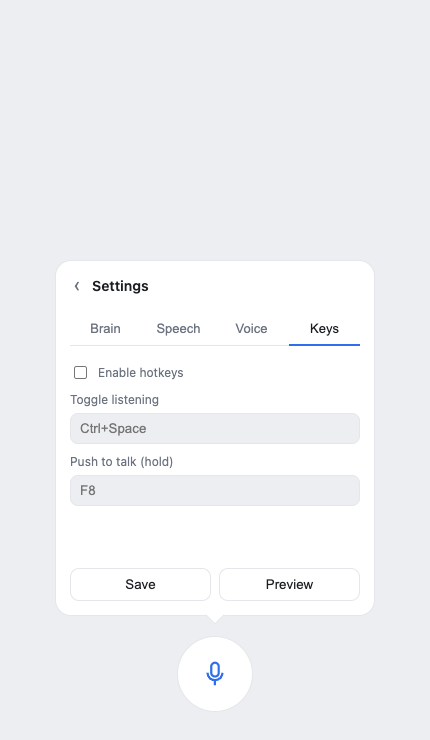
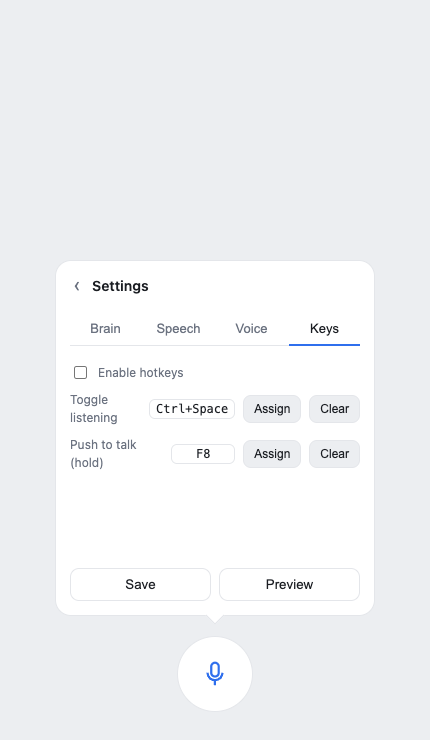
feat(settings): Assign/Clear buttons + chord capture for hotkeys
- Keys tab: each hotkey shows its binding with Assign and Clear buttons
- Assign enters capture mode; the next key combination becomes the binding
  (multi-modifier chords supported, e.g. Ctrl+Shift+K); Escape cancels, Backspace clears
- desktop Settings modal uses the same Assign/Clear UX and emits Electron accelerators
- verified: assign Alt+J -> hold-to-talk engages/releases; Ctrl+Shift+K toggle works; Clear -> Not set

diff --git a/apps/desktop/main.js b/apps/desktop/main.js
@@ -336,10 +336,18 @@ function openSettings() {
     <input id="model" placeholder="deepseek-flash" style="width:100%;box-sizing:border-box;background:#0f1216;border:1px solid #2a2e35;color:#e8eaed;border-radius:8px;padding:8px;margin:0 0 12px"/>
     <label style="display:block;font-size:11px;color:#9aa0a6">API key (optional; stored locally)</label>
     <input id="key" type="password" style="width:100%;box-sizing:border-box;background:#0f1216;border:1px solid #2a2e35;color:#e8eaed;border-radius:8px;padding:8px;margin:0 0 12px"/>
-    <label style="display:block;font-size:11px;color:#9aa0a6">Toggle-recording hotkey (works anywhere; e.g. Control+Alt+Space, blank to disable)</label>
-    <input id="hotkey" placeholder="Control+Alt+Space" style="width:100%;box-sizing:border-box;background:#0f1216;border:1px solid #2a2e35;color:#e8eaed;border-radius:8px;padding:8px;margin:0 0 12px"/>
-    <label style="display:block;font-size:11px;color:#9aa0a6">Push-to-talk key (hold, in-app; e.g. F8 or Alt+Space)</label>
-    <input id="ptt" placeholder="F8" style="width:100%;box-sizing:border-box;background:#0f1216;border:1px solid #2a2e35;color:#e8eaed;border-radius:8px;padding:8px;margin:0 0 14px"/>
+    <label style="display:block;font-size:11px;color:#9aa0a6">Toggle-recording hotkey (global; blank disables)</label>
+    <div style="display:flex;align-items:center;gap:8px;margin:0 0 12px">
+      <kbd id="hk" style="flex:1;text-align:center;padding:6px;border:1px solid #2a2e35;border-radius:6px;font:12px ui-monospace,monospace">Not set</kbd>
+      <button id="hkA" type="button" style="padding:6px 10px;border:1px solid #2a2e35;background:#232830;color:#e8eaed;border-radius:8px">Assign</button>
+      <button id="hkC" type="button" style="padding:6px 10px;border:1px solid #2a2e35;background:transparent;color:#e8eaed;border-radius:8px">Clear</button>
+    </div>
+    <label style="display:block;font-size:11px;color:#9aa0a6">Push-to-talk key (in-app; hold)</label>
+    <div style="display:flex;align-items:center;gap:8px;margin:0 0 14px">
+      <kbd id="ptt" style="flex:1;text-align:center;padding:6px;border:1px solid #2a2e35;border-radius:6px;font:12px ui-monospace,monospace">F8</kbd>
+      <button id="pttA" type="button" style="padding:6px 10px;border:1px solid #2a2e35;background:#232830;color:#e8eaed;border-radius:8px">Assign</button>
+      <button id="pttC" type="button" style="padding:6px 10px;border:1px solid #2a2e35;background:transparent;color:#e8eaed;border-radius:8px">Clear</button>
+    </div>
     <div style="display:flex;gap:8px">
       <button id="s" style="flex:1;padding:9px;border:1px solid #2a2e35;background:#232830;color:#e8eaed;border-radius:8px">Save &amp; restart</button>
       <button id="c" style="flex:1;padding:9px;border:1px solid #2a2e35;background:transparent;color:#e8eaed;border-radius:8px">Cancel</button>
@@ -348,10 +356,27 @@ function openSettings() {
   <script>
     const cur=${cur};
     const g=id=>document.getElementById(id);
+    let hk=cur.hotkeyToggle||'', ptt=cur.hotkeyPTT||'F8', capturing='';
+    const hkEl=g('hk'), pttEl=g('ptt');
+    function render(){ hkEl.textContent=hk||'Not set'; pttEl.textContent=ptt||'Not set'; g('hkA').textContent=(capturing==='hk'?'Press combination…':'Assign'); g('pttA').textContent=(capturing==='ptt'?'Press combination…':'Assign'); }
+    render();
+    g('hkA').onclick=()=>{ capturing='hk'; render(); };
+    g('pttA').onclick=()=>{ capturing='ptt'; render(); };
+    g('hkC').onclick=()=>{ hk=''; render(); };
+    g('pttC').onclick=()=>{ ptt=''; render(); };
+    document.addEventListener('keydown',e=>{ if(!capturing) return; e.preventDefault();
+      if(e.key==='Escape'){ capturing=''; render(); return; }
+      if(e.key==='Backspace'||e.key==='Delete'){ if(capturing==='hk')hk=''; else ptt=''; capturing=''; render(); return; }
+      const mods=[]; if(e.ctrlKey||e.metaKey)mods.push('CommandOrControl'); if(e.altKey)mods.push('Alt'); if(e.shiftKey)mods.push('Shift');
+      if(['Control','Meta','Alt','Shift'].includes(e.key)) return;
+      const map={' ':'Space','ArrowUp':'Up','ArrowDown':'Down','ArrowLeft':'Left','ArrowRight':'Right'};
+      const main=map[e.key]||(e.key.length===1?e.key.toUpperCase():e.key);
+      const acc=mods.concat([main]).join('+');
+      if(capturing==='hk')hk=acc; else ptt=acc; capturing=''; render();
+    });
     g('run').checked=cur.runLocally; g('port').value=cur.port; g('url').value=cur.url||'';
     g('brain').value=cur.brain; g('baseUrl').value=cur.baseUrl||''; g('model').value=cur.model||''; g('key').value=cur.apiKey||'';
-    g('hotkey').value=cur.hotkeyToggle||''; g('ptt').value=cur.hotkeyPTT||'F8';
-    g('s').onclick=()=>window.jarvisShell.saveSettings({runLocally:g('run').checked,port:parseInt(g('port').value||'8766',10),url:g('url').value.trim(),brain:g('brain').value,baseUrl:g('baseUrl').value.trim(),model:g('model').value.trim(),apiKey:g('key').value,hotkeyToggle:g('hotkey').value.trim(),hotkeyPTT:g('ptt').value.trim()});
+    g('s').onclick=()=>window.jarvisShell.saveSettings({runLocally:g('run').checked,port:parseInt(g('port').value||'8766',10),url:g('url').value.trim(),brain:g('brain').value,baseUrl:g('baseUrl').value.trim(),model:g('model').value.trim(),apiKey:g('key').value,hotkeyToggle:hk,hotkeyPTT:ptt});
     g('c').onclick=()=>window.jarvisShell.close();
   </script></body></html>`;
   modal.loadURL(dataUrl(html));

diff --git a/src/jarvis/web/page.py b/src/jarvis/web/page.py
@@ -82,6 +82,11 @@ INDEX_HTML = r"""<!doctype html>
         border-radius:8px; padding:7px 9px; }
   .btnrow{ display:flex; gap:8px; }
   .btnrow button{ flex:1; border:1px solid var(--line); background:transparent; color:var(--fg); border-radius:9px; padding:8px; cursor:pointer; }
+  .hkrow{ display:flex; align-items:center; gap:8px; }
+  .hkrow .lbl{ flex:1; font-size:12px; color:var(--muted); }
+  .hkbtn{ border:1px solid var(--line); background:var(--bg); color:var(--fg); border-radius:8px; padding:6px 10px; font-size:12px; cursor:pointer; }
+  .hkbtn.capturing{ border-color:var(--accent); color:var(--accent); }
+  kbd{ font:12px ui-monospace,SFMono-Regular,Menlo,monospace; border:1px solid var(--line); border-radius:6px; padding:2px 6px; min-width:64px; text-align:center; }
   .tabs{ display:flex; gap:2px; border-bottom:1px solid var(--line); margin:0 0 8px; }
   .tabs .tab{ flex:1; border:0; background:transparent; color:var(--muted); cursor:pointer; font-size:13px;
         padding:8px 4px; border-bottom:2px solid transparent; margin-bottom:-1px; }
@@ -165,8 +170,8 @@ INDEX_HTML = r"""<!doctype html>
         </div>
         <div class="tabpane" data-pane="keys">
           <label style="flex-direction:row;align-items:center;gap:8px"><input id="s-hotkeys-on" type="checkbox" style="width:auto" /> Enable hotkeys</label>
-          <label>Toggle listening <input id="s-hotkey-toggle" readonly placeholder="Ctrl+Space" /></label>
-          <label>Push to talk (hold) <input id="s-hotkey-ptt" readonly placeholder="F8" /></label>
+          <div class="hkrow"><span class="lbl">Toggle listening</span><kbd id="kbd-toggle">Ctrl+Space</kbd><button class="hkbtn" id="hkassign-toggle" type="button">Assign</button><button class="hkbtn" id="hkclear-toggle" type="button">Clear</button></div>
+          <div class="hkrow"><span class="lbl">Push to talk (hold)</span><kbd id="kbd-ptt">F8</kbd><button class="hkbtn" id="hkassign-ptt" type="button">Assign</button><button class="hkbtn" id="hkclear-ptt" type="button">Clear</button></div>
           <div id="hotkey-info" style="font-size:11px;color:var(--muted)"></div>
         </div>
       </div>
@@ -209,10 +214,24 @@ try{
   hkPTT=localStorage.getItem('jarvis.hotkeyPTT')||'F8';
 }catch(e){}
 try{ const _q=new URLSearchParams(location.search); if(_q.get('hk_toggle')) hkToggle=_q.get('hk_toggle'); if(_q.get('hk_ptt')) hkPTT=_q.get('hk_ptt'); persistHotkeys(); }catch(e){}
+let capturingFor=null;
 function evCombo(e){ const p=[]; if(e.ctrlKey||e.metaKey)p.push('Ctrl'); if(e.altKey)p.push('Alt'); if(e.shiftKey)p.push('Shift'); const k=e.key; if(!['Control','Alt','Shift','Meta'].includes(k)) p.push(k===' '?'Space':(k.length===1?k.toUpperCase():k)); return p.join('+'); }
+function comboHasMainKey(c){ const mods=['Ctrl','Alt','Shift']; return c.split('+').some(p=>p && !mods.includes(p)); }
 function inEditable(e){ const t=e.target; return t && (t.tagName==='INPUT'||t.tagName==='TEXTAREA'||t.isContentEditable); }
-function isHotkeyCapture(e){ return e.target && (e.target.id==='s-hotkey-toggle'||e.target.id==='s-hotkey-ptt'); }
 function persistHotkeys(){ try{ localStorage.setItem('jarvis.hotkeysEnabled', hotkeysEnabled?'1':'0'); localStorage.setItem('jarvis.hotkeyToggle', hkToggle); localStorage.setItem('jarvis.hotkeyPTT', hkPTT); }catch(e){} }
+function renderHotkeys(){
+  const t=document.getElementById('kbd-toggle'), p=document.getElementById('kbd-ptt');
+  if(t) t.textContent = hkToggle || 'Not set';
+  if(p) p.textContent = hkPTT || 'Not set';
+  const a=document.getElementById('hkassign-toggle'), b=document.getElementById('hkassign-ptt');
+  if(a) a.classList.toggle('capturing', capturingFor==='toggle');
+  if(b) b.classList.toggle('capturing', capturingFor==='ptt');
+  if(a) a.textContent = capturingFor==='toggle' ? 'Press combination…' : 'Assign';
+  if(b) b.textContent = capturingFor==='ptt' ? 'Press combination…' : 'Assign';
+  updateHotkeyInfo();
+}
+function startCapture(which){ capturingFor=which; renderHotkeys(); }
+function endCapture(){ capturingFor=null; renderHotkeys(); }
 function updateHotkeyInfo(){ const el=document.getElementById('hotkey-info'); if(el) el.textContent=`Hold ${hkPTT} to talk · ${hkToggle} toggles (in-app). The desktop app also registers a global toggle shortcut.`; }
 window.jarvisPushToTalk=function(on){ if(on){ if(!streaming) startMic(); } else { if(streaming) stopMic(); } };
 
@@ -282,13 +301,26 @@ quickform.onsubmit=e=>{ e.preventDefault(); const t=quicktext.value; quicktext.v
 document.addEventListener('keydown',e=>{ if(e.key==='Escape'){ if(streaming){ stopMic(); } else { app.dataset.view==='chat' ? view('menu') : view('none'); } } });
 document.addEventListener('click',e=>{ const v=app.dataset.view; if((v==='menu'||v==='input'||v==='settings') && !app.contains(e.target)) view('none'); });
 
-// In-app hotkeys: push-to-talk (hold) and toggle.
-document.addEventListener('keydown',e=>{ if(!hotkeysEnabled||isHotkeyCapture(e)||inEditable(e)) return; const c=evCombo(e); if(!c||e.repeat) return; if(c===hkPTT){ e.preventDefault(); window.jarvisPushToTalk(true); } else if(c===hkToggle){ e.preventDefault(); window.jarvisToggleMic(); } });
-document.addEventListener('keyup',e=>{ if(!hotkeysEnabled||isHotkeyCapture(e)||inEditable(e)) return; if(evCombo(e)===hkPTT){ e.preventDefault(); window.jarvisPushToTalk(false); } });
-// Capture inputs: focus and press a combination to set the hotkey.
-['s-hotkey-toggle','s-hotkey-ptt'].forEach(id=>{ const el=document.getElementById(id); if(!el) return;
-  el.addEventListener('keydown',e=>{ e.preventDefault(); e.stopPropagation(); const c=evCombo(e); if(c && !['Ctrl','Alt','Shift','Ctrl+Alt','Ctrl+Shift','Alt+Shift','Ctrl+Alt+Shift'].includes(c)) el.value=c; });
-  el.addEventListener('focus',()=>{ try{ el.select(); }catch(err){} }); });
+// In-app hotkeys: push-to-talk (hold) and toggle. Also captures new assignments.
+document.addEventListener('keydown',e=>{
+  if(capturingFor){ e.preventDefault(); e.stopPropagation();
+    if(e.key==='Escape'){ endCapture(); return; }
+    if(e.key==='Backspace'||e.key==='Delete'){ if(capturingFor==='toggle') hkToggle=''; else hkPTT=''; persistHotkeys(); endCapture(); return; }
+    const c=evCombo(e);
+    if(!comboHasMainKey(c)) return;            // wait for the non-modifier key
+    if(capturingFor==='toggle') hkToggle=c; else hkPTT=c;
+    persistHotkeys(); endCapture(); return;
+  }
+  if(!hotkeysEnabled||inEditable(e)) return; const c=evCombo(e); if(!c||e.repeat) return;
+  if(hkPTT && c===hkPTT){ e.preventDefault(); window.jarvisPushToTalk(true); }
+  else if(hkToggle && c===hkToggle){ e.preventDefault(); window.jarvisToggleMic(); }
+});
+document.addEventListener('keyup',e=>{ if(capturingFor||!hotkeysEnabled||inEditable(e)) return; if(hkPTT && evCombo(e)===hkPTT){ e.preventDefault(); window.jarvisPushToTalk(false); } });
+// Assign / clear buttons.
+document.getElementById('hkassign-toggle').onclick=()=>startCapture('toggle');
+document.getElementById('hkassign-ptt').onclick=()=>startCapture('ptt');
+document.getElementById('hkclear-toggle').onclick=()=>{ hkToggle=''; persistHotkeys(); renderHotkeys(); };
+document.getElementById('hkclear-ptt').onclick=()=>{ hkPTT=''; persistHotkeys(); renderHotkeys(); };
 
 let settingsTab='brain';
 function showTab(name){ settingsTab=name||settingsTab; document.querySelectorAll('#settings-tabs .tab').forEach(b=>b.setAttribute('aria-selected', b.dataset.tab===settingsTab?'true':'false')); document.querySelectorAll('.tabpane').forEach(p=>p.classList.toggle('active', p.dataset.pane===settingsTab)); if(settingsTab==='voice') loadMics(); if(settingsTab==='brain') loadBrain(); }
@@ -321,17 +353,13 @@ async function loadSettings(){ const d=await (await fetch('/settings')).json();
   const keyEl=document.getElementById('s-api-key'); keyEl.value=''; keyEl.placeholder=d.has_api_key?'•••••••• (saved)':'not set';
   document.getElementById('s-api-row').style.display=(document.getElementById('s-mode').value==='api')?'block':'none';
   document.getElementById('s-hotkeys-on').checked=hotkeysEnabled;
-  document.getElementById('s-hotkey-toggle').value=hkToggle;
-  document.getElementById('s-hotkey-ptt').value=hkPTT;
-  updateHotkeyInfo();
+  renderHotkeys();
   loadAsr(); loadBrain(); }
 async function saveSettings(){ const sel=document.getElementById('s-asr').value, nemo=sel.indexOf('nemo:')===0?sel.slice(5):'';
   const body={ response_mode:document.getElementById('s-mode').value, local_model:document.getElementById('s-local').value, asr_backend:nemo?'nemotron':'sherpa', nemo_model:nemo, tts_backend:document.getElementById('s-tts-backend').value, tts_voice:document.getElementById('s-voice').value, max_spoken_sentences:parseInt(document.getElementById('s-cap').value||'3',10), speech_speed:parseFloat(document.getElementById('s-speed').value||'1'), endpointing_ms:parseInt(document.getElementById('s-endpoint').value||'1200',10), api_base_url:document.getElementById('s-api-base').value.trim(), api_model:document.getElementById('s-api-model').value.trim() };
   const key=document.getElementById('s-api-key').value.trim(); if(key) body.api_key=key;
   hotkeysEnabled=document.getElementById('s-hotkeys-on').checked;
-  hkToggle=document.getElementById('s-hotkey-toggle').value||hkToggle;
-  hkPTT=document.getElementById('s-hotkey-ptt').value||hkPTT;
-  persistHotkeys(); updateHotkeyInfo();
+  persistHotkeys(); renderHotkeys();
   try{ await fetch('/settings',{method:'POST',headers:{'Content-Type':'application/json'},body:JSON.stringify(body)}); }catch(e){} }
 async function loadAsr(){ try{ asrCatalog=await (await fetch('/asr/models')).json(); }catch(e){ return; }
   const d=asrCatalog, sel=document.getElementById('s-asr'), info=document.getElementById('asr-info');
